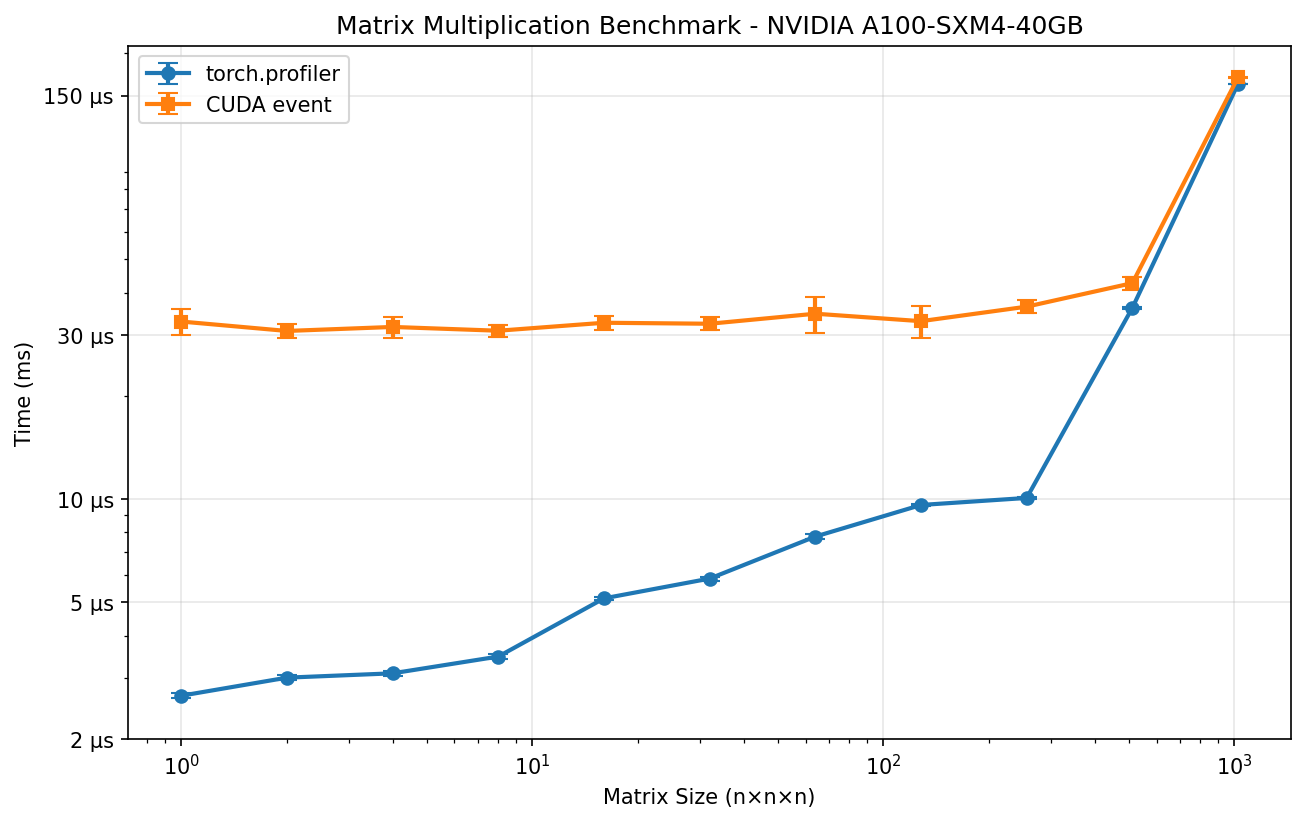
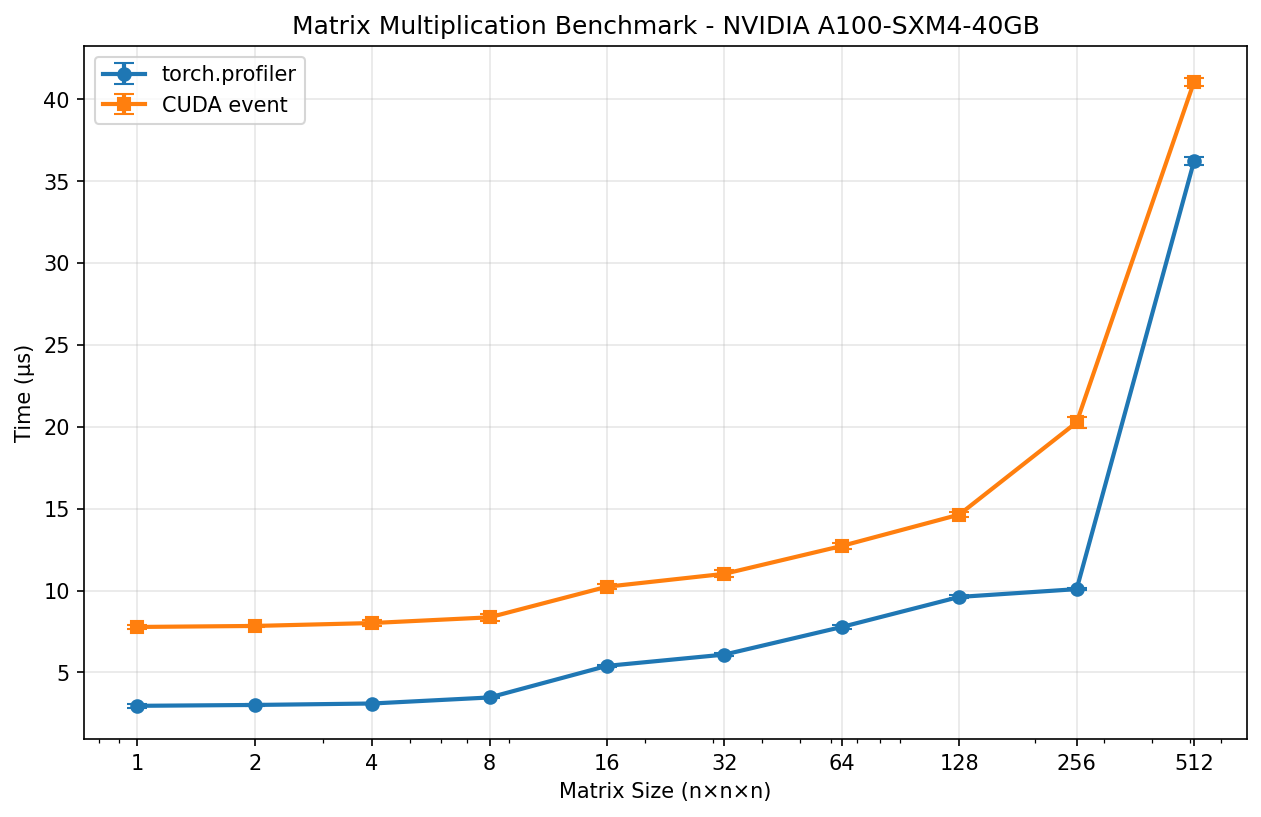
Update benchmark script: remove 1024, use μs, dynamic workspaces
- Remove matrix size 1024 from benchmark (now up to 512)
- Change y-axis from ms to μs
- Use log scale for x-axis with custom ticks
- Use dynamic num_workspaces: min(num_warmup+num_active, 200*(1024//n)**2)
- Simplify benchmark parameters (same for all sizes)
- Update benchmark plot image

🤖 Generated with [Claude Code](https://claude.com/claude-code)

diff --git a/examples/plot_matmul_benchmark.py b/examples/plot_matmul_benchmark.py
@@ -19,7 +19,7 @@ device_name = torch.cuda.get_device_name(0)
 print(f"Device: {device_name}\n")
 
 # Matrix sizes to benchmark
-sizes = [1, 2, 4, 8, 16, 32, 64, 128, 256, 512, 1024]
+sizes = [1, 2, 4, 8, 16, 32, 64, 128, 256, 512]
 
 # Storage for results
 profiler_avgs = []
@@ -30,18 +30,11 @@ cuda_event_errors = []
 for n in sizes:
     print(f"Benchmarking {n}×{n}×{n}...")
 
-    # Adjust benchmark parameters based on matrix size
-    if n <= 64:
-        num_warmup = 5000
-        num_active = 5000
-    elif n <= 256:
-        num_warmup = 5000
-        num_active = 5000
-    else:
-        num_warmup = 5000
-        num_active = 5000
+    num_warmup = 5000
+    num_active = 5000
 
     workspace_gen = generate_workspace(n)
+    num_workspaces = min(num_warmup + num_active, 200 * (1024 // n) ** 2)
 
     # Benchmark with torch profiler
     results = benchmark(
@@ -49,7 +42,7 @@ for n in sizes:
         workspace_generator=workspace_gen,
         num_warmup_runs=num_warmup,
         num_active_runs=num_active,
-        num_workspaces=2000,
+        num_workspaces=num_workspaces,
     )
 
     # Find sgemm kernel (in case there are multiple kernels)
@@ -63,8 +56,8 @@ for n in sizes:
     if sgemm_kernel is None:
         sgemm_kernel = next(iter(results.values()))
 
-    profiler_avgs.append(sgemm_kernel.avg / 1e3)  # Convert μs to ms
-    profiler_errors.append(sgemm_kernel.error / 1e3)  # Convert μs to ms
+    profiler_avgs.append(sgemm_kernel.avg)  # in μs
+    profiler_errors.append(sgemm_kernel.error)  # in μs
 
     # Benchmark with CUDA events
     result = benchmark_cuda_event(
@@ -72,12 +65,12 @@ for n in sizes:
         workspace_generator=workspace_gen,
         num_warmup_runs=num_warmup,
         num_active_runs=num_active,
-        num_workspaces=1000,
+        num_workspaces=num_workspaces,
         num_blocked_cycles=1_000_000,
     )
 
-    cuda_event_avgs.append(result.avg / 1e3)  # Convert μs to ms
-    cuda_event_errors.append(result.error / 1e3)  # Convert μs to ms
+    cuda_event_avgs.append(result.avg)  # in μs
+    cuda_event_errors.append(result.error)  # in μs
 
     print(f"  torch.profiler: {sgemm_kernel}")
     print(f"  CUDA event:     {result}\n")
@@ -97,11 +90,16 @@ plt.errorbar(sizes, profiler_avgs, yerr=profiler_errors,
 plt.errorbar(sizes, cuda_event_avgs, yerr=cuda_event_errors,
                 marker='s', label='CUDA event', capsize=5, linewidth=2)
 
+plt.xscale('log')
 plt.xlabel('Matrix Size (n×n×n)')
-plt.ylabel('Time (ms)')
+plt.ylabel('Time (μs)')
 plt.title(f'Matrix Multiplication Benchmark - {device_name}')
 plt.legend()
 plt.grid(True, alpha=0.3)
+
+# Custom x-axis ticks
+xtick_values = [1, 2, 4, 8, 16, 32, 64, 128, 256, 512]
+plt.xticks(xtick_values, [str(x) for x in xtick_values])
 
 # Save plot
 plt.savefig('matmul_benchmark.png', dpi=150, bbox_inches='tight')
